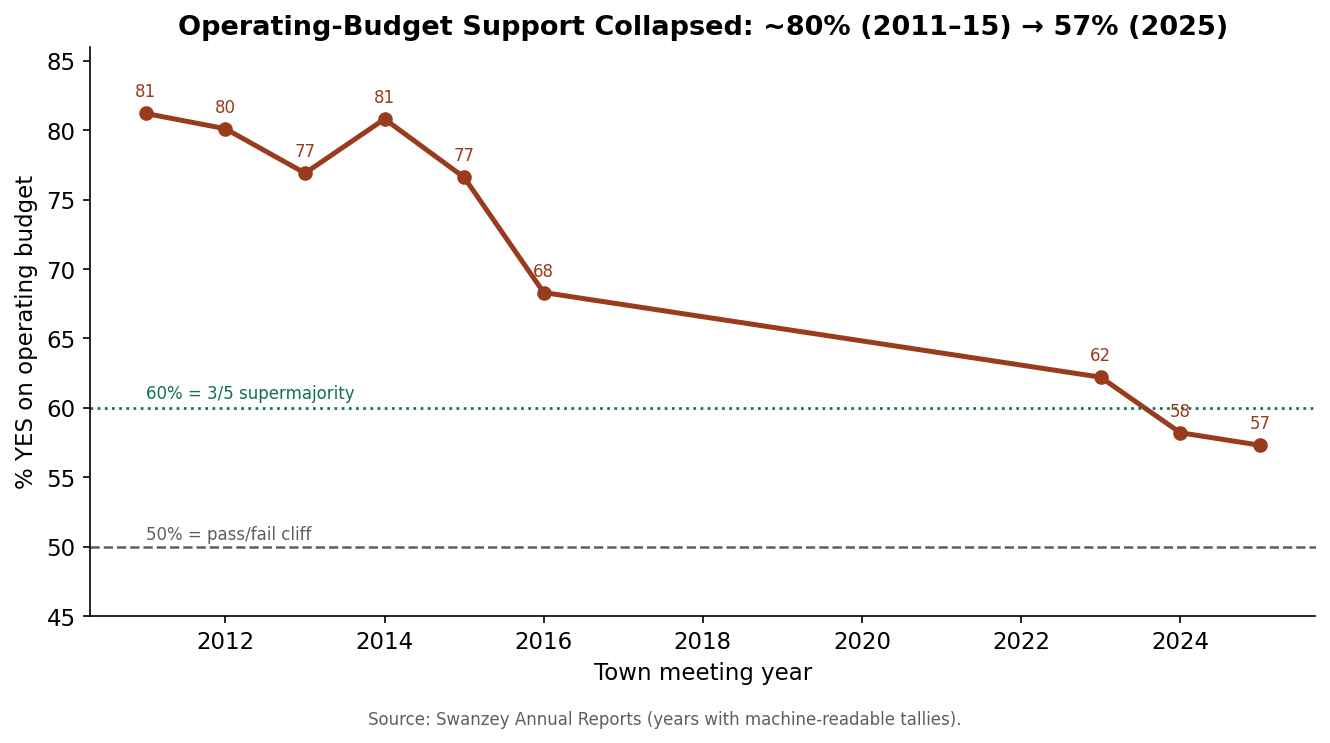
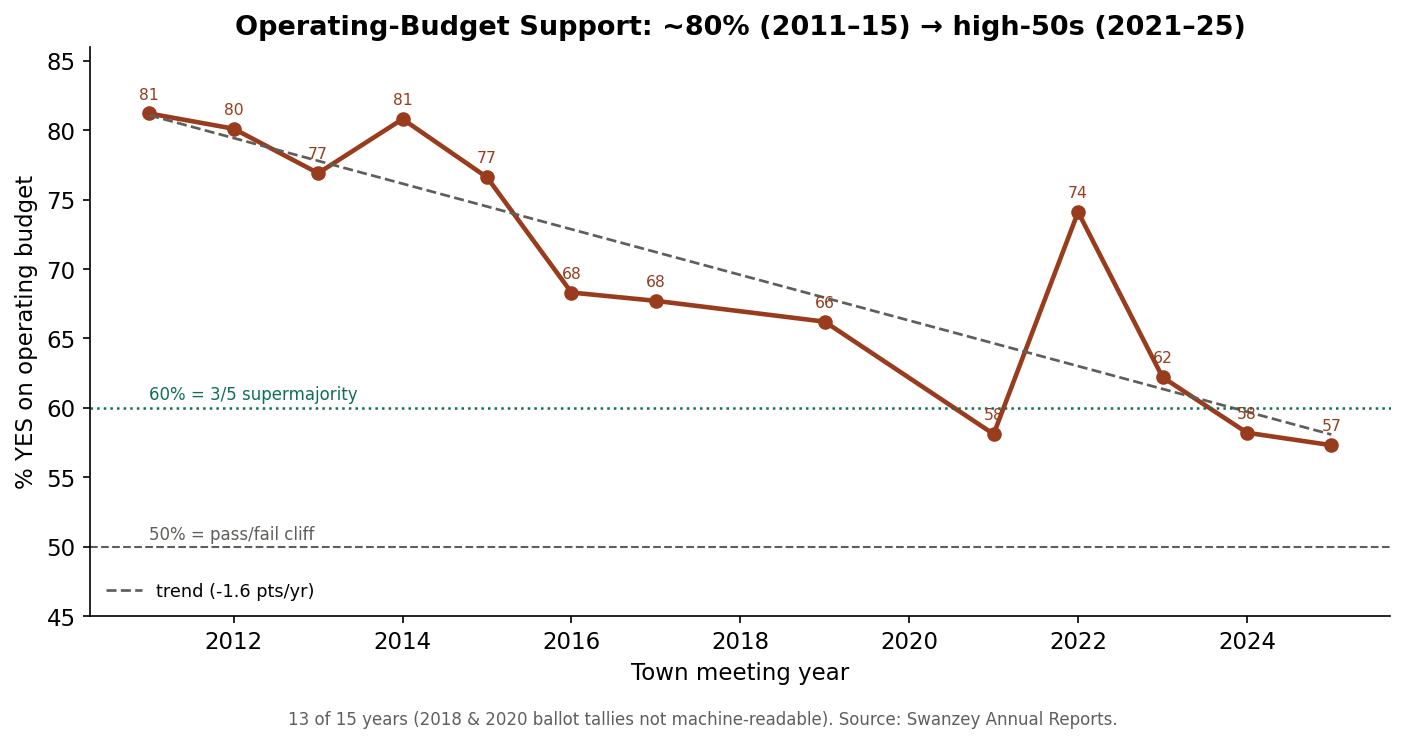
Close data gaps + fold Capital Plan into the review package
(a) Deeper data: recovered operating-budget vote margins for 13 of 15
    years (added 2017/2019/2021/2022; only 2018/2020 unreadable),
    verified each maps to the operating-budget article; support chart now
    13 points with trend line. Tax-rate series kept at 2021-2025 (pre-2021
    not in report text); 2024 revaluation flagged.
(b) PDFs generated natively via reportlab (LibreOffice headless is
    non-functional in this environment) and visually verified.
(c) Capital Plan added as a second report in the same folder:
    - 04 Capital Plan.docx + Deliverables/Capital Plan.pdf (the fix)
    - Deliverables/Capital Warrant Articles.pdf (DRA-compliant models)
    - Model workbook expanded to 8 tabs (added Capital Projects, Capital
      10-Year Plan)
    - 2 new charts (funding stack 62%, net-new tax glide)
    - Board Presentation expanded to 14 slides (findings + the fix)

Two reports, one folder: Final Report (diagnosis) + Capital Plan (fix).

https://claude.ai/code/session_01QjR1e91vo6hzvZdpnVX6Mh

diff --git a/docs/analyses/swanzey-financial-review/README.md b/docs/analyses/swanzey-financial-review/README.md
@@ -10,24 +10,32 @@ presentation as PPTX, published records as PDF, images as PNG — following the 
 Swanzey Financial & Governance Review/
 ├── 00 Case Brief.docx            ← matter, question, method, disposition
 ├── 01 Executive Summary.docx     ← the verdict + headline figures
-├── 02 Findings.docx              ← 10 findings with embedded charts
+├── 02 Findings.docx              ← 10 findings with embedded charts (the diagnosis)
 ├── 03 Recommendations.docx       ← 7 sequenced recommendations
+├── 04 Capital Plan.docx          ← the fix: fund every project without a failed bond
 ├── Models/
-│   └── Swanzey Financial Model.xlsx   ← 6 tabs, live formulas (Budget, Forecast,
-│                                         Ballot Record, Elections, Pains, Tax Rates)
+│   └── Swanzey Financial Model.xlsx   ← 8 tabs, live formulas (Budget, Forecast,
+│                                         Ballot Record, Elections, Pains, Tax Rates,
+│                                         Capital Projects, Capital 10-Year Plan)
 ├── Visuals/
 │   ├── 01_budget-trajectory.png       ← 15-yr budget + forecast
-│   ├── 02_budget-support-erosion.png  ← 81% → 57%
+│   ├── 02_budget-support-erosion.png  ← 81% → 57% (13 of 15 yrs of tallies)
 │   ├── 03_reserves-vs-bonds.png       ← the 3/5 wall
 │   ├── 04_default-gap-collapse.png    ← the dead lever
-│   └── 05_tax-rate-components.png     ← the 2024 revaluation
+│   ├── 05_tax-rate-components.png     ← the 2024 revaluation
+│   ├── 06_capital-funding-stack.png   ← 62% other people's money
+│   └── 07_capital-tax-glide.png       ← peak +$75, then below today
 ├── Deliverables/
-│   ├── Board Presentation.pptx        ← 11-slide select-board deck
-│   ├── Final Report.pdf  (+ .docx source)   ← cover + summary + findings + recs
-│   └── Public Handout.pdf (+ .docx source)  ← one-page plain-language summary
+│   ├── Board Presentation.pptx        ← 14-slide deck: findings + the fix
+│   ├── Final Report.pdf  (+ .docx source)        ← diagnosis: summary + findings + recs
+│   ├── Capital Plan.pdf  (+ 04 .docx source)     ← the fix report
+│   ├── Capital Warrant Articles.pdf              ← DRA-compliant model articles
+│   └── Public Handout.pdf (+ .docx source)       ← one-page plain-language summary
 └── Archive/
     └── Sources & Provenance.docx      ← every source + provenance legend + caveats
 ```
+
+Two reports, one folder: **Final Report** (the diagnosis) and **Capital Plan** (the fix).
 
 ## Format rule applied
 